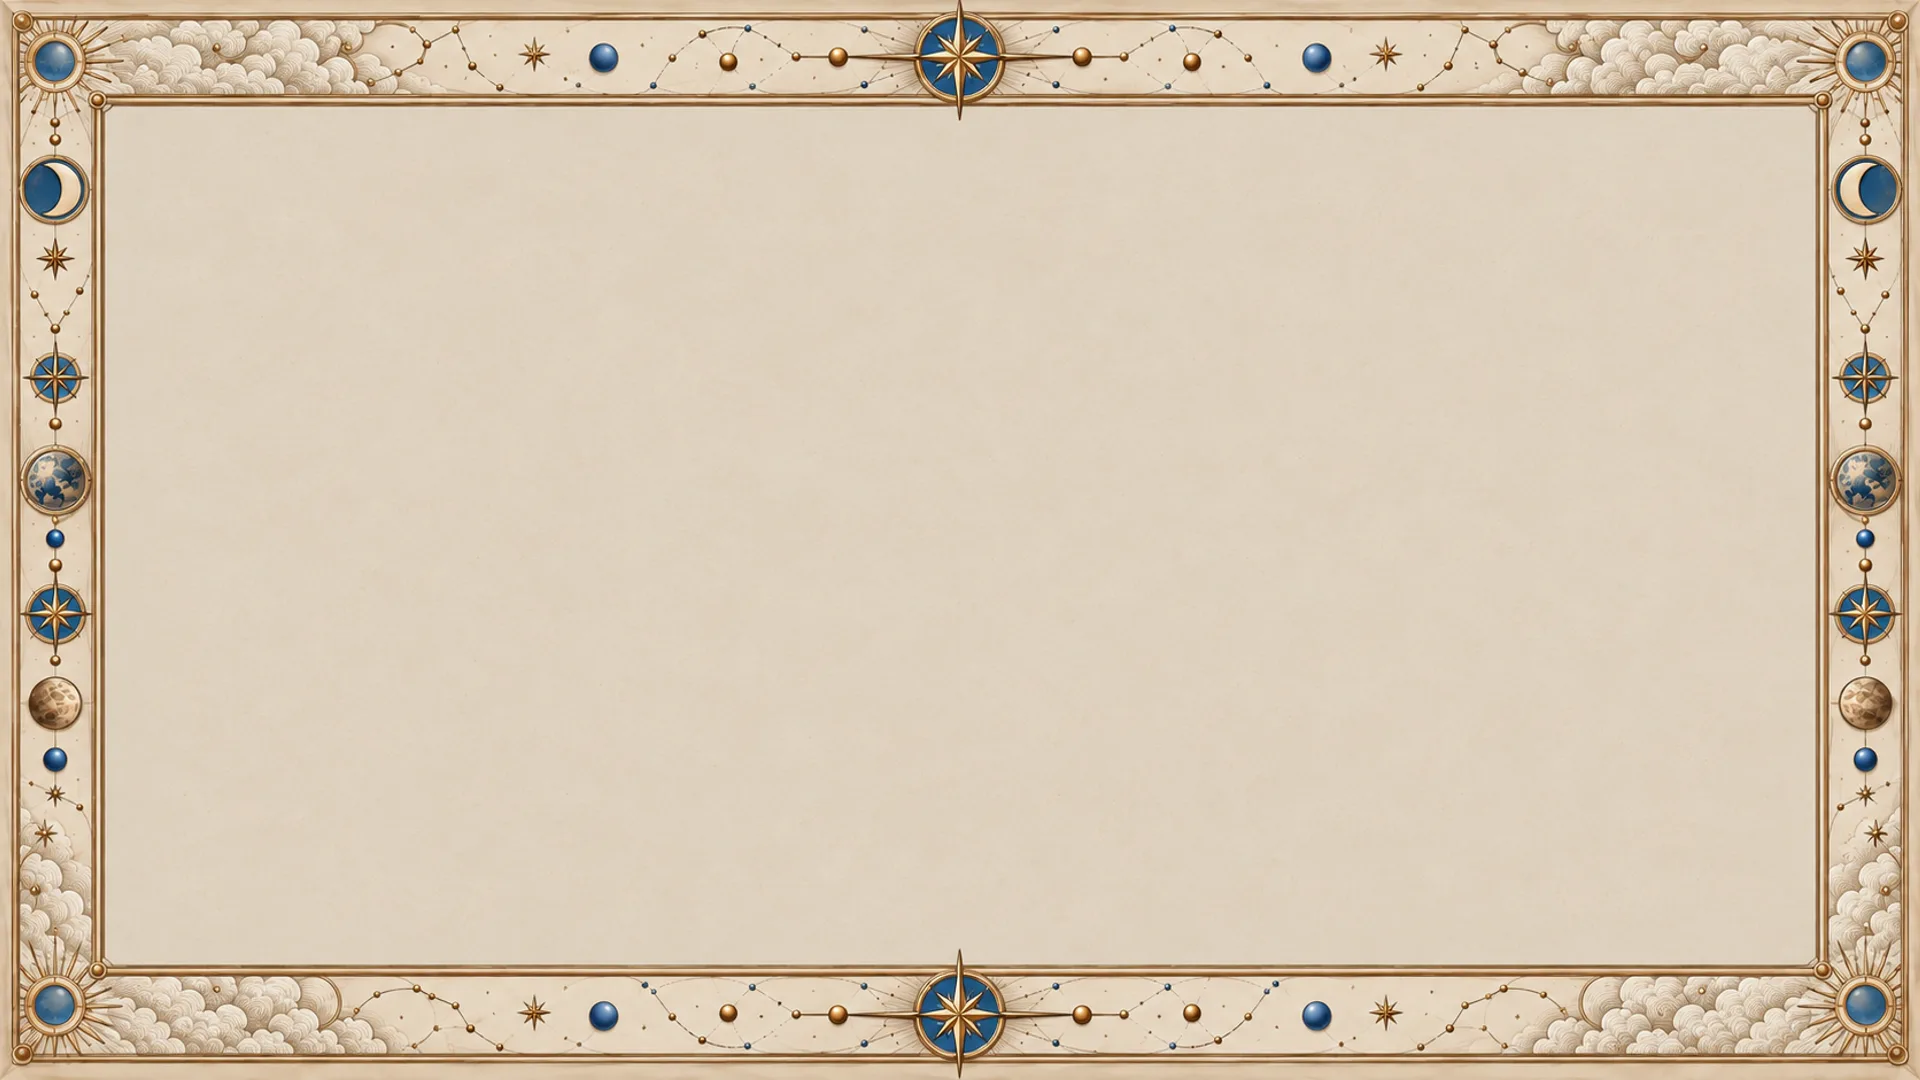
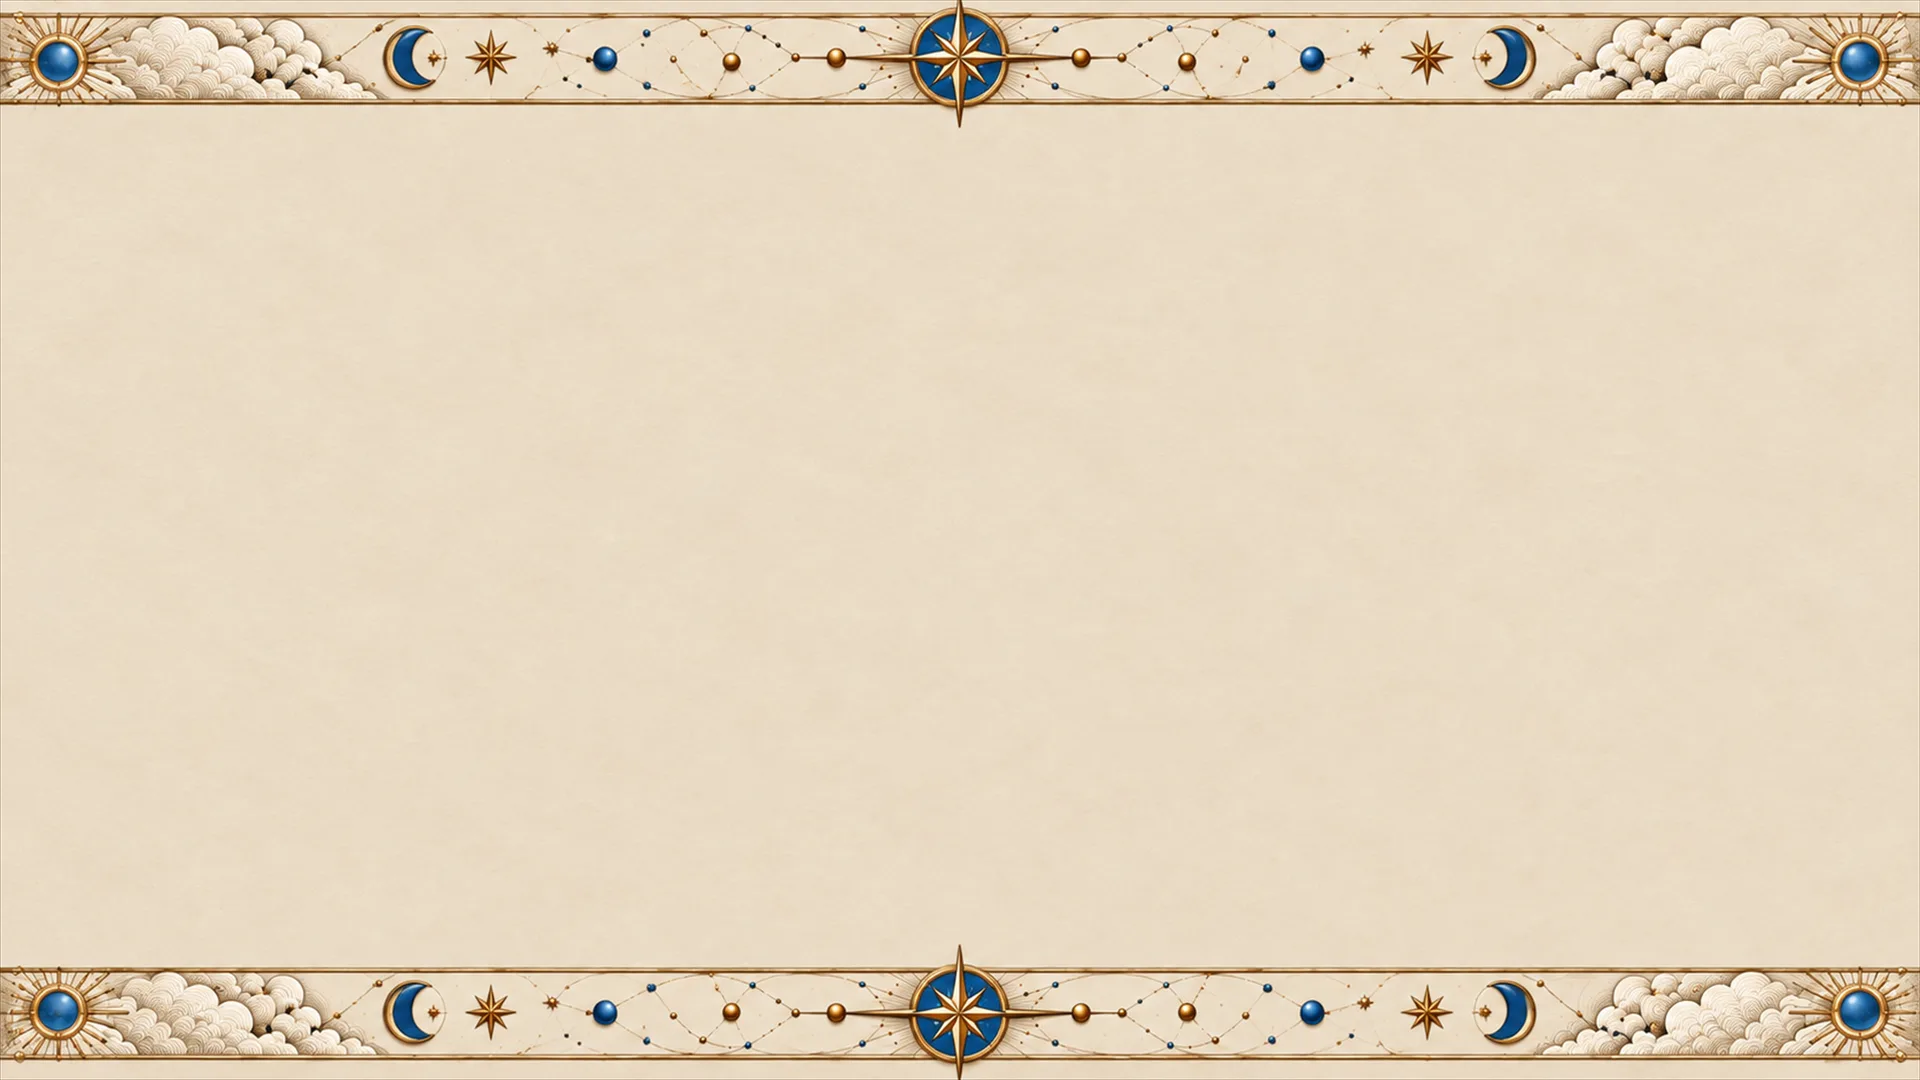
Cancellation Task: Codex's borderless-sides gameplay art + a dedicated level-map border, both themes, both orientations
Codex regenerated both screens' art with the ornament deliberately
absent from one axis, and that is what finally resolves the edge
argument this game has been stuck in all session.

GAMEPLAY (4 assets, reusing the existing filenames) — ornament on the
top and bottom only, sides bleed plain parchment. That removes the
constraint every previous attempt was fighting, and lets PORTRAIT go
back to plain `cover` with zero distortion:

  asset 2160x3840 (0.5625) vs every real phone (~0.45-0.50)
  -> phone is always narrower, so height binds
  -> no vertical crop: both bands land intact on the screen edges at
     their true aspect
  -> the horizontal crop falls entirely on the plain sides, where the
     art deliberately has nothing to lose

So portrait now gets edge-to-edge ornament AND no stretch, which the
four-sided frame made impossible. Landscape keeps `100% 100%`: this
app's documented desktop is 1366x577 (2.367) against a 1.778 asset, so
`cover` binds on width and crops ~95px off top and bottom while the
band only renders ~77px there — it would eat both bands completely.

LEVEL MAP (4 new assets) — the mirror image: ornament down the left
and right, top and bottom bleed. Correct for the one screen in this
game that SCROLLS (up to 60 levels, thousands of px): top/bottom
ornament would either scroll away or cap a column with no end, while
side ornament frames the scroll for its whole length. Wired as a
`position: fixed` ::before on `.cx-page:has(.cpp-path)` — fixed so the
[…]

Changed region(s): [[0.0, 0.0, 1.0, 1.0]]

diff --git a/src/styles/training.css b/src/styles/training.css
@@ -10053,34 +10053,37 @@ html[data-home-theme='dark'] .ct-domain-game-stage:has(.cancellation-task-game .
  * `cover` never crops. Portrait gets its OWN real recompose now too, not
  * this same crop stretched — see the media query further down. */
 /* ⚠ `100% 100%`, NOT `cover` (owner, 2026-09-12: "put the image of the
- * background exactly as the border of the screen"). This asset is a FRAME —
- * its whole subject is the ornamental border running along all four edges —
- * and that makes every aspect-preserving fit mode wrong here, for reasons
- * that are arithmetic rather than taste:
+ * background exactly as the border of the screen").
  *
- *   · `cover` scales to the LARGER ratio and crops the overflow. Measured on
- *     the real assets, the border occupies ~10-12% of the image per edge
- *     while the crop removes ~9-25% depending on device — so the cut lands
- *     INSIDE the border, slicing medallions in half. That is the "tiny stuff
- *     that appears and is disgusting" report.
- *   · `contain` (and the 82%-width variant tried before this) never crops,
- *     but leaves the frame floating with dead margin around it — the frame
- *     stops being the screen's border and becomes a picture OF a border.
- *     That is the "it was ruined" report.
+ * ⚠ THE ART CHANGED SHAPE AND THAT CHANGED THE RIGHT ANSWER (2026-09-12,
+ * Codex regenerated the gameplay set with NO LEFT/RIGHT BORDERS — ornament
+ * runs along the top and bottom only, the sides bleed as plain parchment).
+ * That is not a restyle, it removes the constraint the whole argument below
+ * was built on, and PORTRAIT can now use plain `cover` with zero distortion:
  *
- * Both failures share one cause: an aspect-preserving mode cannot make a
+ *   asset 2160x3840 (0.5625) · every real phone is NARROWER (~0.45-0.50)
+ *   -> height binds, so `cover` crops horizontally and never vertically
+ *   -> both ornament bands survive intact, and the crop removes only the
+ *      plain parchment at the sides, where by design there is nothing to cut
+ *
+ * LANDSCAPE still cannot use `cover`, for the opposite reason: this app's
+ * own documented desktop is 1366x577 (2.367) against a 1.778 asset, so
+ * `cover` binds on WIDTH and crops ~95px off each of top and bottom — while
+ * the band itself only renders ~77px tall there. Cover would eat both bands
+ * completely. So landscape keeps `100% 100%`, where the only visible cost is
+ * a vertical squeeze of the bands; the horizontal stretch is free, because
+ * the sides are plain.
+ *
+ * ── Why the four-sided frame this replaced could never be fixed ──
+ * Kept because it is the reason to leave the new art alone. With ornament on
+ * all four edges, `cover` cropped ~9-25% depending on device against a
+ * border only ~10-12% wide, so the cut landed INSIDE the ornament and halved
+ * the medallions ("tiny stuff that appears and is disgusting"); `contain`
+ * and an 82%-width variant never cropped but detached the frame from the
+ * screen edge ("it was ruined"). An aspect-preserving mode cannot make a
  * fixed-aspect rectangle meet a variable-aspect viewport on all four edges
- * at once. `100% 100%` drops the aspect constraint and pins each edge of the
- * art to the matching edge of the screen, which is exactly what was asked
- * for and the only mode that guarantees it on every device.
- *
- * ⚠ The cost is real and deliberate: non-uniform scale. Circular medallions
- * render as slight ovals (~18% horizontal squeeze on a typical phone). That
- * is acceptable HERE and would not be on most art — this is a symmetrical
- * repeating ornament with no face, text or logo, the categories where a
- * stretch reads as a mistake. It is also the quieter error: an evenly
- * squeezed ornament reads as a design choice, a half-cut medallion reads as
- * a bug.
+ * at once — one of crop-or-margin is forced. The new art dissolves that by
+ * simply not putting anything on the axis that has to give.
  *
  * ⚠ BOTH layers must be sized. `background-size` is positional — the first
  * value belongs to the veil gradient, the second to the image — so writing a
@@ -10158,33 +10161,36 @@ html[data-home-theme='dark'] .ct-domain-game-stage:has(.cancellation-task-game .
      * the stage itself, not `.ct-fq-g-wrap`, which is a descendant),
      * not a fallback-based estimate.
      *
-     * ⚠ THIS EDGE HISTORY IS THE POINT — two failures, opposite
-     * directions, one cause. `cover` crops ~9% off each side on a real
-     * phone while the border itself occupies ~10-12%, so the cut lands
-     * inside the ornament and halves the medallions ("tiny stuff that
-     * appears and is disgusting"). The fix tried next — 82% width,
-     * centred, margin filled with the art's own interior tone — never
-     * crops, but detaches the frame from the screen edge and leaves it
-     * floating ("it was ruined"). Neither is a tuning problem: an
-     * aspect-preserving fit CANNOT meet a variable-aspect viewport on
-     * all four edges at once, so one of crop-or-margin is forced.
+     * ⚠ PORTRAIT IS BACK ON `cover`, AND IT IS NOW LOSSLESS — the whole
+     * edge history above describes a FOUR-SIDED frame, which no fit mode
+     * could serve. Codex's replacement art puts ornament on the top and
+     * bottom ONLY and lets the sides bleed as plain parchment, and that
+     * makes `cover` exactly right here rather than a compromise:
      *
-     * `100% 100%` drops the aspect constraint instead and pins each edge
-     * of the art to the matching screen edge — see the full reasoning on
-     * the landscape rule above, which now does the same thing. */
+     *   asset 2160x3840 (0.5625) vs every real phone (~0.45-0.50)
+     *   -> the phone is always NARROWER, so height binds
+     *   -> zero vertical crop: both ornament bands land intact on the
+     *      screen's top and bottom edges, at their true aspect
+     *   -> the horizontal crop falls entirely on the plain sides, where
+     *      the art deliberately has nothing to lose
+     *
+     * So portrait gets edge-to-edge ornament AND no distortion, which is
+     * the thing the four-sided art made impossible. Landscape still needs
+     * `100% 100%` — see the note on the landscape rule above for why
+     * `cover` would eat both bands on a 1366x577 desktop. */
     .ct-domain-game-stage:has(.cancellation-task-game .ct-fq-play[data-gameplay-active='true'])::before {
         background-image: linear-gradient(var(--game-veil), var(--game-veil)),
             url("/the-maze-man-comics/Assets/attention/cancel-starchart-bg-portrait.webp");
-        background-size: 100% 100%, 100% 100%;
+        background-size: cover, cover;
         background-position: center, center;
         background-repeat: no-repeat, no-repeat;
     }
-    /* Dark-graded portrait half — same asset pair and edge-to-edge sizing
-       reasoning as the landscape dark override two blocks up. */
+    /* Dark-graded portrait half — same asset shape and `cover` reasoning
+       as the light rule directly above. */
     html[data-home-theme='dark'] .ct-domain-game-stage:has(.cancellation-task-game .ct-fq-play[data-gameplay-active='true'])::before {
         background-image: linear-gradient(var(--game-veil), var(--game-veil)),
             url("/the-maze-man-comics/Assets/attention/cancel-starchart-bg-dark-portrait.webp");
-        background-size: 100% 100%, 100% 100%;
+        background-size: cover, cover;
         background-position: center, center;
         background-repeat: no-repeat, no-repeat;
     }

diff --git a/src/features/training/domains/attention/games/cancellation/cancelPlanetPath.css b/src/features/training/domains/attention/games/cancellation/cancelPlanetPath.css
@@ -5,6 +5,67 @@
  * screen this replaces.
  */
 
+/* ── The level map's own ornamental border (2026-09-12, Codex) ───────────
+ * A dedicated art set, and its shape is the MIRROR of the gameplay one:
+ * ornament runs down the LEFT and RIGHT edges while the top and bottom
+ * bleed as plain parchment. That is the correct choice for this screen
+ * specifically, and the reason is structural rather than decorative —
+ * this is the one screen in the game that SCROLLS (up to 60 levels, a
+ * path thousands of px tall). Ornament on the top/bottom edges would
+ * either scroll away with the content or cap a column that has no end;
+ * ornament on the sides frames the scroll for its whole length.
+ *
+ * ⚠ `position: fixed` (matching `.ct-domain-game-stage::before`, the same
+ * pattern the gameplay background uses) so the border stays pinned to the
+ * screen while levels scroll past it, rather than travelling with the
+ * content and leaving bare edges below the fold. It resolves against
+ * `#ui-shell` — a transformed ancestor traps `fixed` — which is the app
+ * area, so the framing is right either way.
+ *
+ * ⚠ `100% 100%`, not `cover`: the ornament lives on the left and right
+ * edges here, so `cover` (which crops the axis that overflows) would cut
+ * exactly the thing this art exists for on any viewport narrower than the
+ * asset. Stretching pins both ornament columns to the screen's own left
+ * and right edges on every device; the vertical give lands on the plain
+ * top/bottom, where by design there is nothing to distort. This is the
+ * same argument as the gameplay background in training.css, rotated 90
+ * degrees — see that comment for the full derivation.
+ *
+ * ⚠ Scoped by `:has(.cpp-path)` — `.cx-page` dresses EVERY screen in this
+ * game (mode select, level select, results), and only the level map wants
+ * a border. `.cpp-path` exists on this screen and nowhere else. */
+.cx-page:has(.cpp-path)::before {
+  content: '';
+  position: fixed;
+  inset: 0;
+  z-index: 0;
+  pointer-events: none;
+  background-image: url("/the-maze-man-comics/Assets/attention/cancel-levelmap-bg.webp");
+  background-size: 100% 100%;
+  background-position: center;
+  background-repeat: no-repeat;
+}
+html[data-home-theme='dark'] .cx-page:has(.cpp-path)::before {
+  background-image: url("/the-maze-man-comics/Assets/attention/cancel-levelmap-bg-dark.webp");
+}
+@media (orientation: portrait) {
+  .cx-page:has(.cpp-path)::before {
+    background-image: url("/the-maze-man-comics/Assets/attention/cancel-levelmap-bg-portrait.webp");
+  }
+  html[data-home-theme='dark'] .cx-page:has(.cpp-path)::before {
+    background-image: url("/the-maze-man-comics/Assets/attention/cancel-levelmap-bg-dark-portrait.webp");
+  }
+}
+/* ⚠ REQUIRED, not tidiness. A positioned pseudo-element at `z-index: 0`
+   paints ABOVE the content of non-positioned siblings (CSS 2.1 painting
+   order: positioned boxes come after in-flow block content), so without
+   this the border layer would cover the entire level map. Same pairing
+   `.ct-domain-game-stage > *` already carries in training.css. */
+.cx-page:has(.cpp-path) > * {
+  position: relative;
+  z-index: 1;
+}
+
 .cpp-path {
   position: relative;
   width: 100%;
